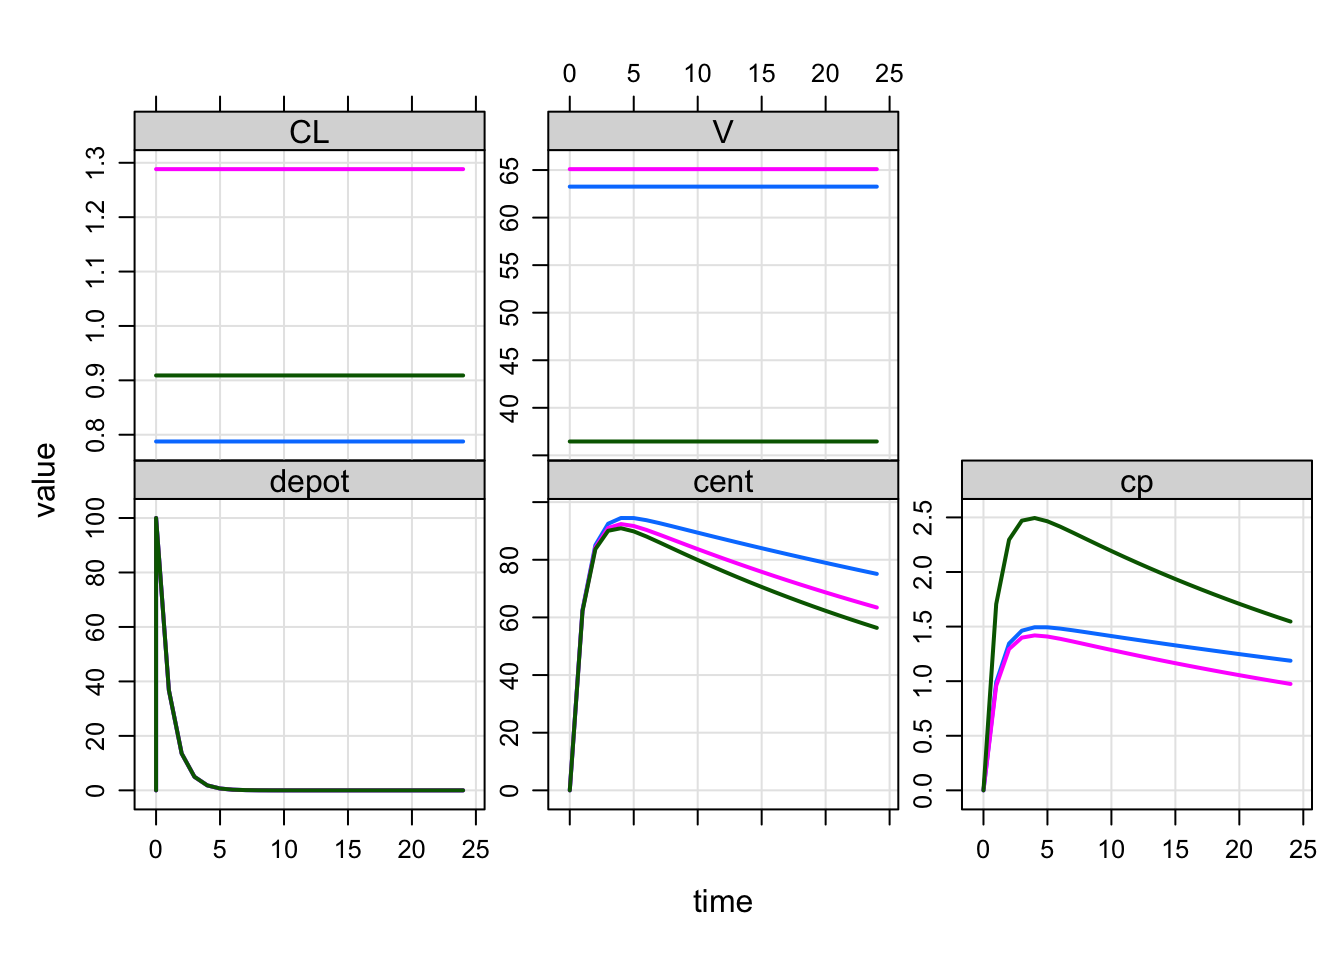
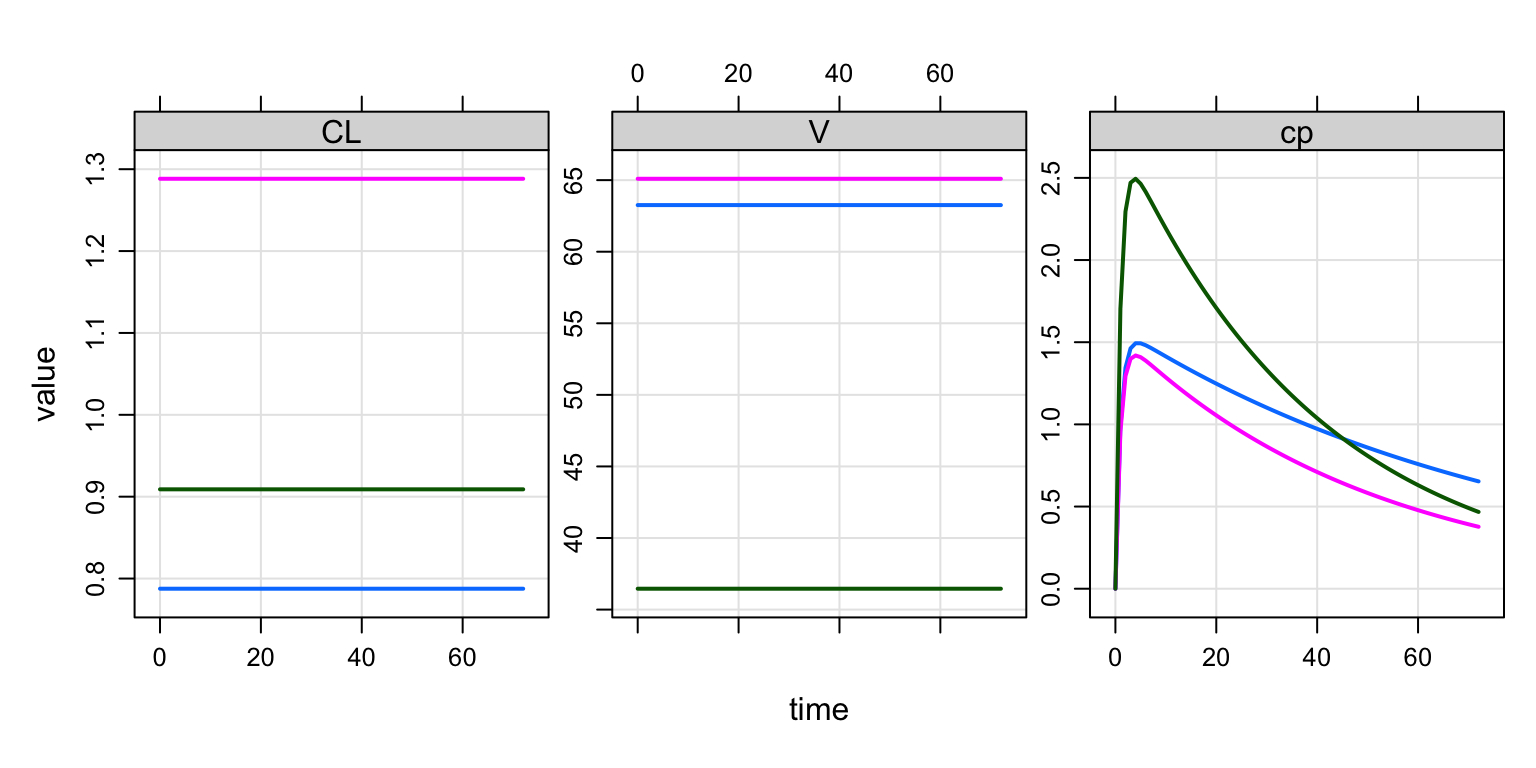
re-size figure

diff --git a/docs/simulate-ebe.html b/docs/simulate-ebe.html
@@ -554,16 +554,16 @@ div.tocify {
 <span id="cb10-20"><a href="#cb10-20" aria-hidden="true" tabindex="-1"></a><span class="st">[ pkmodel ] cmt = &quot;depot,cent&quot;, depot = TRUE</span></span>
 <span id="cb10-21"><a href="#cb10-21" aria-hidden="true" tabindex="-1"></a></span>
 <span id="cb10-22"><a href="#cb10-22" aria-hidden="true" tabindex="-1"></a><span class="st">[ error ] </span></span>
-<span id="cb10-23"><a href="#cb10-23" aria-hidden="true" tabindex="-1"></a><span class="st">capture cp = cent/V;</span></span>
+<span id="cb10-23"><a href="#cb10-23" aria-hidden="true" tabindex="-1"></a><span class="st">double cp = cent/V;</span></span>
 <span id="cb10-24"><a href="#cb10-24" aria-hidden="true" tabindex="-1"></a><span class="st">&#39;</span></span>
-<span id="cb10-25"><a href="#cb10-25" aria-hidden="true" tabindex="-1"></a>mod <span class="ot">&lt;-</span> <span class="fu">mcode</span>(<span class="st">&quot;ebe&quot;</span>, code, <span class="at">capture =</span> <span class="st">&quot;CL,V&quot;</span>)</span></code></pre></div>
+<span id="cb10-25"><a href="#cb10-25" aria-hidden="true" tabindex="-1"></a>mod <span class="ot">&lt;-</span> <span class="fu">mcode</span>(<span class="st">&quot;ebe&quot;</span>, code, <span class="at">capture =</span> <span class="st">&quot;CL,V,cp&quot;</span>)</span></code></pre></div>
 <pre><code>## Building ebe ... done.</code></pre>
 </div>
 <div id="simulate" class="section level2" number="7.3">
 <h2 number="7.3"><span class="header-section-number">7.3</span> Simulate</h2>
-<div class="sourceCode" id="cb12"><pre class="sourceCode r"><code class="sourceCode r"><span id="cb12-1"><a href="#cb12-1" aria-hidden="true" tabindex="-1"></a>out <span class="ot">&lt;-</span> <span class="fu">mrgsim</span>(mod, data) </span>
-<span id="cb12-2"><a href="#cb12-2" aria-hidden="true" tabindex="-1"></a><span class="fu">plot</span>(out)</span></code></pre></div>
-<p><img src="simulate-ebe_files/figure-html/unnamed-chunk-9-1.png" width="672" /></p>
+<div class="sourceCode" id="cb12"><pre class="sourceCode r"><code class="sourceCode r"><span id="cb12-1"><a href="#cb12-1" aria-hidden="true" tabindex="-1"></a>out <span class="ot">&lt;-</span> <span class="fu">mrgsim</span>(mod, data, <span class="at">end =</span> <span class="dv">72</span>) </span>
+<span id="cb12-2"><a href="#cb12-2" aria-hidden="true" tabindex="-1"></a><span class="fu">plot</span>(out, <span class="st">&quot;CL,V,cp&quot;</span>)</span></code></pre></div>
+<p><img src="simulate-ebe_files/figure-html/unnamed-chunk-9-1.png" width="768" /></p>
 </div>
 <div id="check" class="section level2" number="7.4">
 <h2 number="7.4"><span class="header-section-number">7.4</span> Check</h2>
@@ -577,9 +577,9 @@ div.tocify {
 <pre><code>## # A tibble: 3 × 4
 ##      ID    CL     V     n
 ##   &lt;dbl&gt; &lt;dbl&gt; &lt;dbl&gt; &lt;int&gt;
-## 1     1 0.788  63.3    26
-## 2     2 1.29   65.1    26
-## 3     3 0.909  36.5    26</code></pre>
+## 1     1 0.788  63.3    74
+## 2     2 1.29   65.1    74
+## 3     3 0.909  36.5    74</code></pre>
 </div>
 <div id="random-simulation" class="section level2" number="7.5">
 <h2 number="7.5"><span class="header-section-number">7.5</span> Random simulation</h2>
